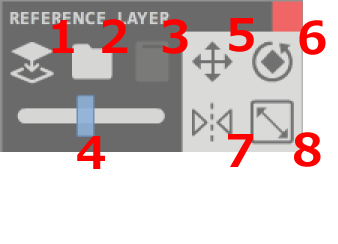
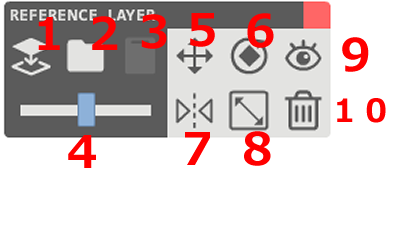
9.82

diff --git a/kr.html b/kr.html
@@ -408,8 +408,6 @@
         참고 레이어 아이콘을 클릭하게 되면 위와 같은 박스가 나타납니다.<p></p>
         
         [1] 현재 캔버스의 이미지를 참고레이어로 이동 시킵니다.<br>
-        클릭할 때마다 참고레이어 그림이 덮어 씌워 지므로 주의하세요.<br>
-        이 버튼을 2번 연속으로 누르면 참고 레이어의 이미지를 청소 할 수 있습니다.<br>
         클릭 후, 지워진 메인 레이어의 이미지는 작업취소(undo)를 이용해 복원할 수 있습니다.<p></p>
 
         [2] 이미지 파일을 선택해 참고레이어로 사용할 수 있습니다. 파일 드래그&드롭 기능을 이용해 불러올때는, 불러오기 메뉴에서 reference layer를 선택하세요.<p></p>
@@ -421,6 +419,8 @@
         [6] 참고레이어를 클릭+드래그로 회전 시킵니다.<p></p>
         [7] 참고레이어를 좌우 반전 시킵니다.<p></p>
         [8] 참고레이어 크기를 클릭+드래그로 조절합니다.<p></p>
+        [9] 펜(직선) 툴을 사용할때 참고레이어를 일시적으로 보이지 않게합니다.<p></p>
+        [10] 참고레이어의 이미지를 지웁니다.<p></p>
 
         아래 동영상은 참고 레이어를 사용하는 동영상입니다.<p></p>
       

diff --git a/index.html b/index.html
@@ -105,7 +105,7 @@
           *正式な証明書を使用していないので、SmartScreenやセキュリティの脅威警告が表示されることがあります。<br>
           *it's not using a formal certificate, so you may get SmartScreen and security threat warnings.<p></p>
         </p>
-        <p><a href="https://github.com/guljam/2020FlashPaint/releases/download/setup/fofoPaint_Setup.zip"><span>Windows (ver 9.81)</span></a> <span>/ Mac (need tester)</span></p>
+        <p><a href="https://github.com/guljam/2020FlashPaint/releases/download/setup/fofoPaint_Setup.zip"><span>Windows (ver 9.82)</span></a> <span>/ Mac (need tester)</span></p>
         <p><a href="releasenote.txt">release note</a></p>
         <img src="img/appscreenshot.png" width=500>
         <p></p>

diff --git a/jp.html b/jp.html
@@ -428,6 +428,8 @@
       [6] 参考レイヤーをClick+Dragで回転させます。<p></p>
       [7] 参考レイヤーを左右反転します。<p></p>
       [8] 参考レイヤーのサイズをClick+Dragで変更します。<p></p>
+      [9] ペン(直線)ツールを使うとき参考レイヤーを一時的に見えないようにします。<p></p>
+      [10] 参考レイヤーのイメージを消します。<p></p>
 
       下の動画を参考したください。<p></p>
     

diff --git a/en.html b/en.html
@@ -424,6 +424,8 @@
       [6] Rotate the image with Click+Drag.<p></p>
       [7] Horizontal Flip the reference layer.<p></p>
       [8] Resize the image with Click+Drag.<p></p>
+      [9] Temporarily hides the reference layer when using the pen (line) tool.<p></p>
+      [10] Erase the image of reference layer.<p></p>
 
       See the video below how to use reference layer.<p></p>
     
